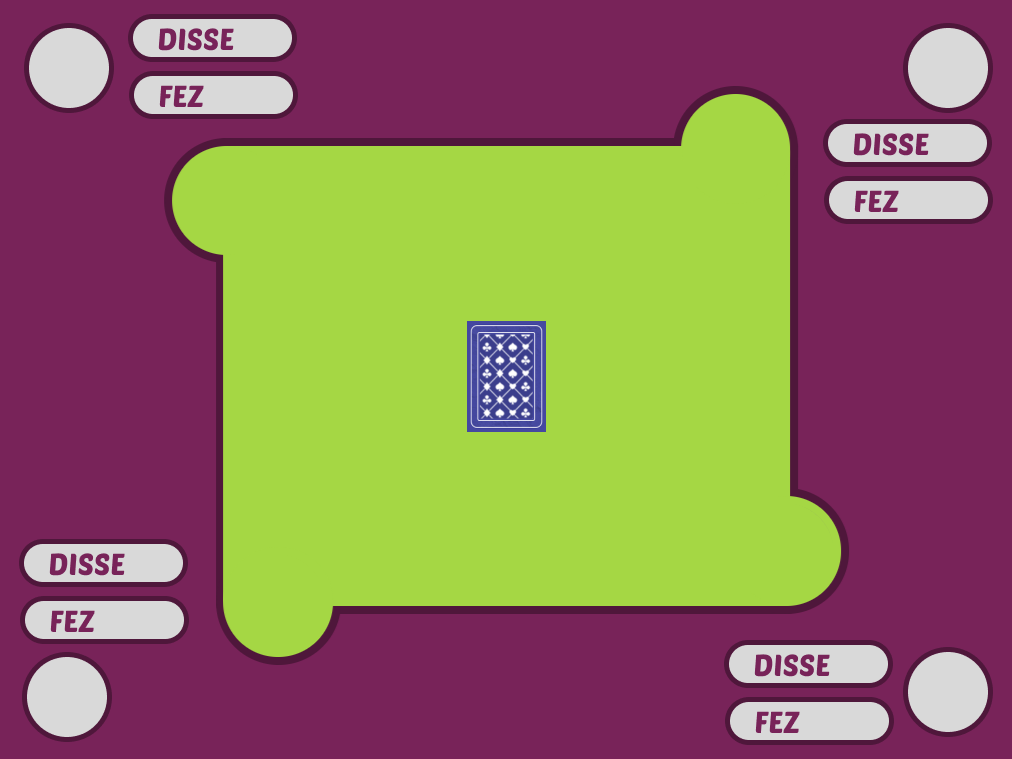
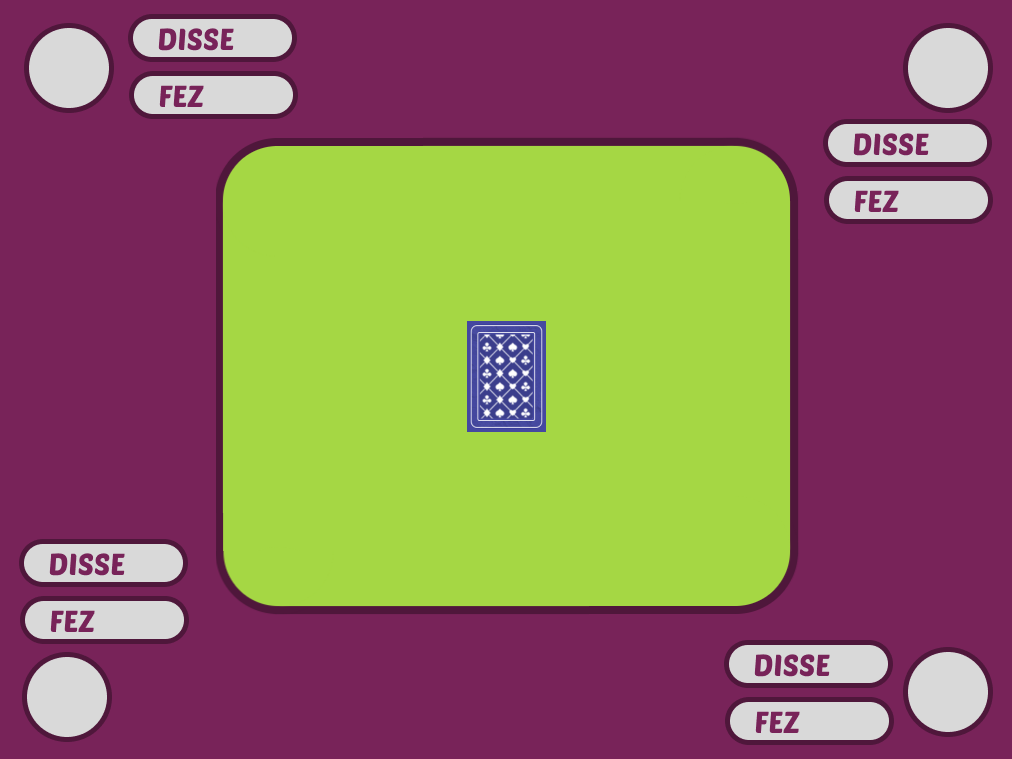
mesa nova

diff --git a/src/teste2.py b/src/teste2.py
@@ -17,7 +17,7 @@ janela.resizable(False, False)
 janela.title("Interface Filho da Puta")
 icone = PhotoImage(file='assets/icone.png')
 janela.iconphoto(True, icone)
-mesa = PhotoImage(file="assets/mesa-interface.png")
+mesa = PhotoImage(file="assets/mesa.png")
 label_mesa = Label(janela, image=mesa)
 label_mesa.place(x=0, y=0, relwidth=1, relheight=1)
 
